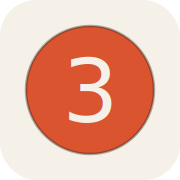
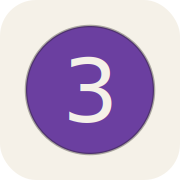
Brand color: vermilion → deep royal violet (#3)
Swap the single brand accent across the site. Kept the historical
--flame token name to avoid churning every downstream reference;
only the value changed. rgba() literals in the countdown pulse
animation and stamp background swapped alongside.

Files:
- src/styles/global.css — --flame, --flame-soft, --flame-faint and
  the five countdown rgba() literals
- public/favicon.svg — seal disc fill
- public/apple-touch-icon.svg — seal disc fill
- public/og-image.svg — wordmark italic, headline "decide", seal disc
- public/favicon.ico, icon-192.png, icon-512.png, apple-touch-icon.png,
  og-image.png — re-rasterized

Claude-Session: https://claude.ai/code/session_011m993AkU5vBSzbaFFgYVKG

diff --git a/src/styles/global.css b/src/styles/global.css
@@ -19,9 +19,12 @@
   --paper-mute: #8A8472;     /* tertiary / labels */
 
   /* ---- ACCENTS ---- */
-  --flame: #D9542F;          /* deeper warm vermillion (anchors better on cream) */
-  --flame-soft: rgba(217, 84, 47, 0.16);
-  --flame-faint: rgba(217, 84, 47, 0.08);
+  /* Brand accent kept under the historical --flame token name so downstream
+   * components don't need to change. Value is a deep royal violet — reads
+   * with editorial weight on the warm cream ground. */
+  --flame: #6B3FA0;          /* deep royal violet (brand primary) */
+  --flame-soft: rgba(107, 63, 160, 0.16);
+  --flame-faint: rgba(107, 63, 160, 0.08);
   --on-flame: #FFFFFF;       /* text color that sits on top of --flame (theme-independent) */
   --sage: #7D8F73;           /* dusty sage — deepened for cream readability */
   --bone: #BFA876;           /* warm bone for tagged elements */
@@ -2408,14 +2411,14 @@ a:focus-visible, button:focus-visible {
   border: 1.5px solid var(--flame);
   padding: 7px 14px 7px 12px;
   border-radius: 999px;
-  background: rgba(217, 84, 47, 0.04);
+  background: rgba(107, 63, 160, 0.04);
 }
 
 .lc-stamp-dot {
   width: 8px; height: 8px;
   border-radius: 50%;
   background: var(--flame);
-  box-shadow: 0 0 0 0 rgba(217, 84, 47, 0.6);
+  box-shadow: 0 0 0 0 rgba(107, 63, 160, 0.6);
   animation: lc-pulse 1.6s ease-out infinite;
 }
 
@@ -2429,9 +2432,9 @@ a:focus-visible, button:focus-visible {
 }
 
 @keyframes lc-pulse {
-  0%   { box-shadow: 0 0 0 0 rgba(217, 84, 47, 0.55); }
-  70%  { box-shadow: 0 0 0 10px rgba(217, 84, 47, 0); }
-  100% { box-shadow: 0 0 0 0 rgba(217, 84, 47, 0); }
+  0%   { box-shadow: 0 0 0 0 rgba(107, 63, 160, 0.55); }
+  70%  { box-shadow: 0 0 0 10px rgba(107, 63, 160, 0); }
+  100% { box-shadow: 0 0 0 0 rgba(107, 63, 160, 0); }
 }
 
 .lc-subtitle {
